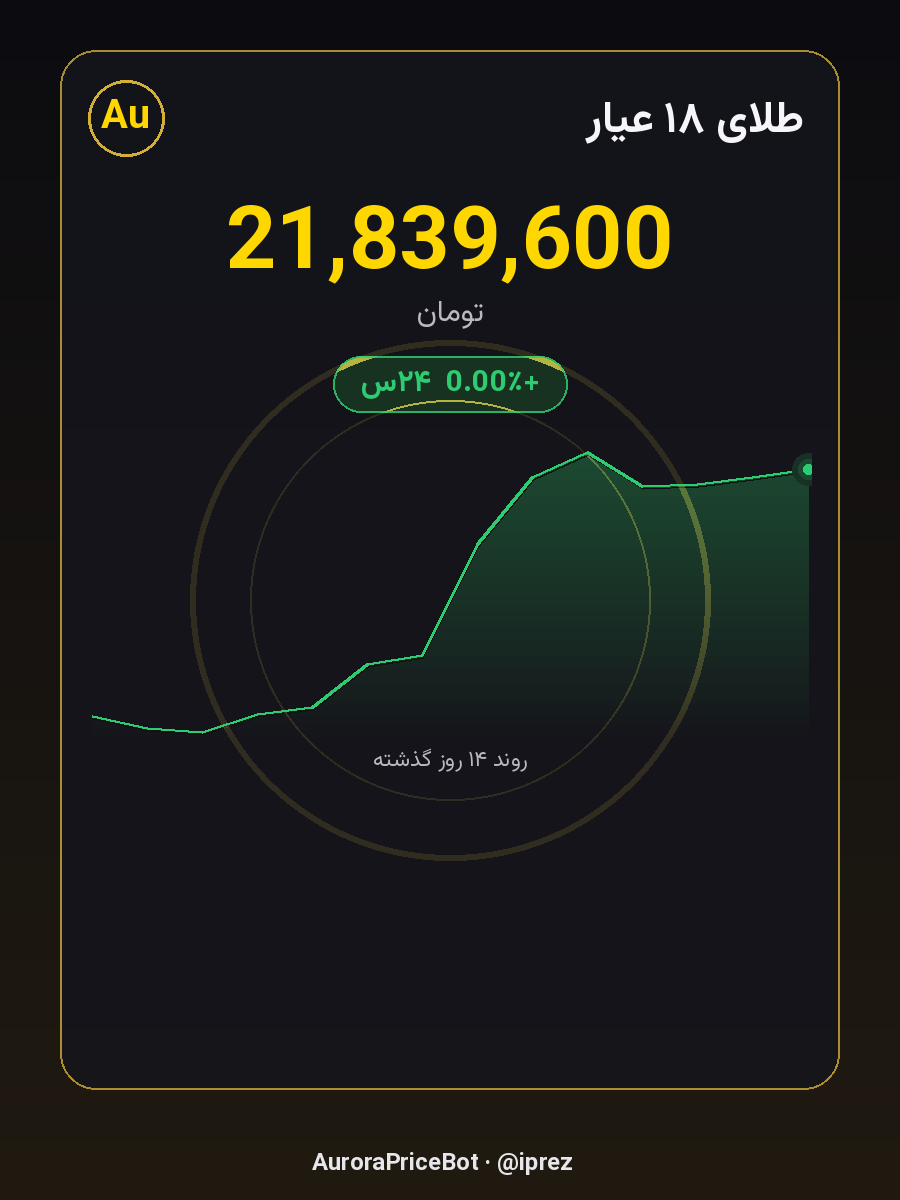
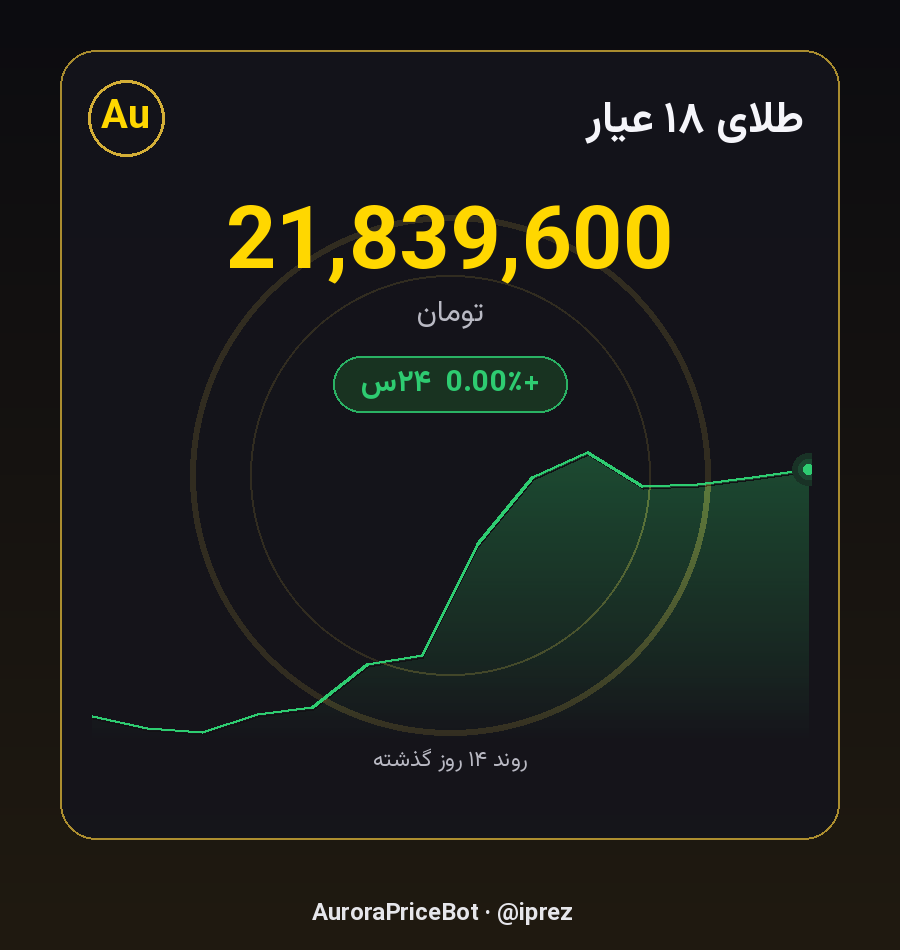
chart: ultra-wide + shorter card (900x950) + price axis markers (like reference)

diff --git a/banner.py b/banner.py
@@ -23,7 +23,7 @@ GREEN = (46, 204, 113)
 RED = (235, 87, 87)
 CARD_BG = (255, 255, 255, 235)
 
-W, H = 900, 1200
+W, H = 900, 950
 
 
 def _fa(text: str) -> str:
